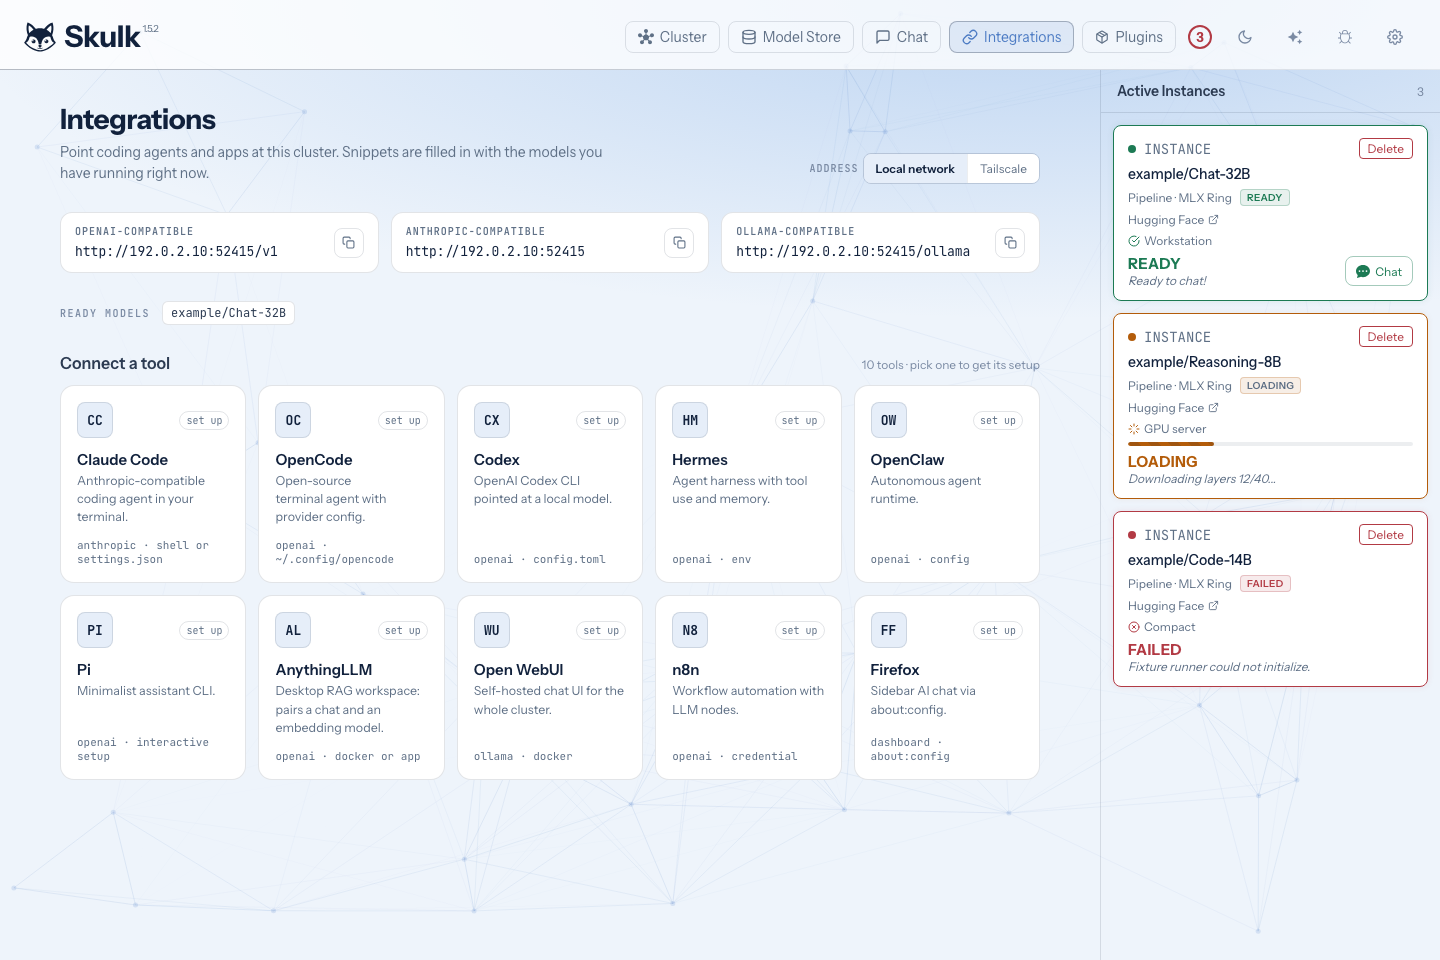
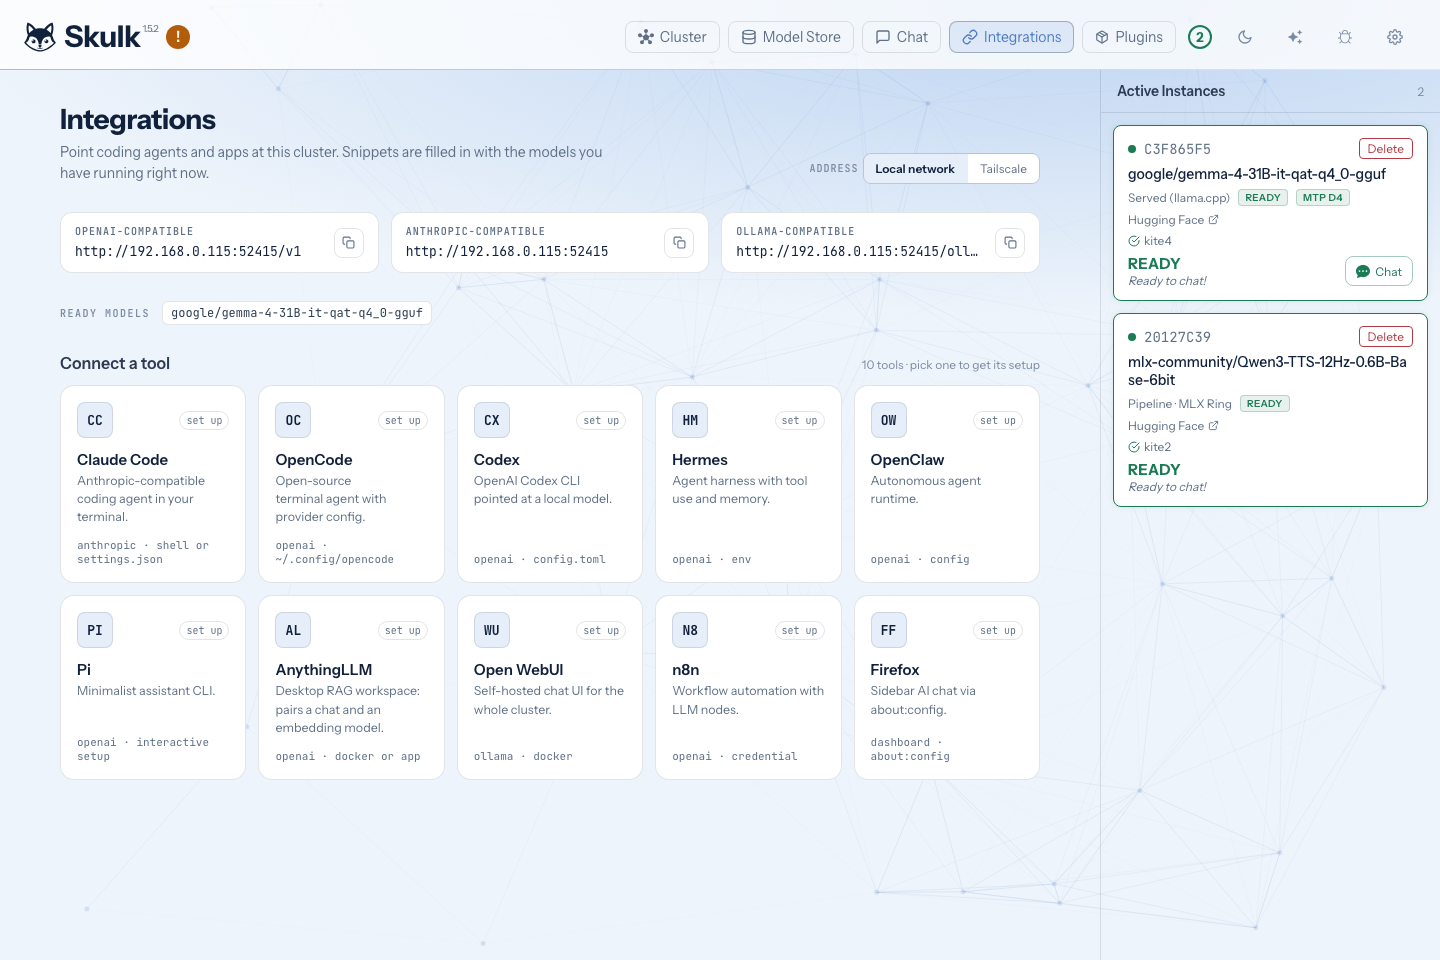
Use live cluster and native app screenshots; repair embedded OpenAPI references

diff --git a/src/skulk/api/main.py b/src/skulk/api/main.py
@@ -1153,7 +1153,7 @@ def _video_create_multipart_schema() -> dict[str, object]:
     ``allOf`` beside the file parts; the parts are merged into a copy of it.
     """
 
-    schema = cast("dict[str, object]", VideoCreateRequest.model_json_schema())
+    schema = _inline_request_schema(VideoCreateRequest.model_json_schema())
     properties = dict(cast("dict[str, object]", schema.get("properties", {})))
     binary: dict[str, object] = {"type": "string", "format": "binary"}
     properties["input_reference"] = {
@@ -1568,13 +1568,62 @@ def _create_fastapi_app() -> FastAPI:
     )
 
 
+def _inline_request_schema(schema: dict[str, object]) -> dict[str, object]:
+    """Inline local definitions before embedding nonrecursive request metadata.
+
+    Pydantic's standalone ``#/$defs`` references address the document root.
+    Once nested inside OpenAPI they would point outside their own schema, so
+    resolve them locally without changing request validation or parsing.
+    """
+
+    def expand(
+        value: object,
+        definitions: dict[str, object],
+        resolving: frozenset[str] = frozenset(),
+    ) -> object:
+        if isinstance(value, list):
+            return [
+                expand(item, definitions, resolving)
+                for item in cast(list[object], value)
+            ]
+        if not isinstance(value, dict):
+            return value
+        fields = cast(dict[str, object], value)
+        local = fields.get("$defs")
+        if isinstance(local, dict):
+            definitions = definitions | cast(dict[str, object], local)
+        reference = fields.get("$ref")
+        if isinstance(reference, str) and reference.startswith("#/$defs/"):
+            if reference in resolving:
+                raise ValueError(
+                    "Recursive request metadata needs an OpenAPI component"
+                )
+            name = (
+                reference.removeprefix("#/$defs/").replace("~1", "/").replace("~0", "~")
+            )
+            target = expand(definitions[name], definitions, resolving | {reference})
+            assert isinstance(target, dict)
+            return cast(dict[str, object], target) | {
+                key: expand(item, definitions, resolving)
+                for key, item in fields.items()
+                if key not in {"$ref", "$defs"}
+            }
+        return {
+            key: expand(item, definitions, resolving)
+            for key, item in fields.items()
+            if key != "$defs"
+        }
+
+    return cast(dict[str, object], expand(schema, {}))
+
+
 def _json_request_body(schema: dict[str, object]) -> dict[str, object]:
     return {
         "requestBody": {
             "required": True,
             "content": {
                 "application/json": {
-                    "schema": schema,
+                    "schema": _inline_request_schema(schema),
                 }
             },
         }
@@ -1584,7 +1633,7 @@ def _json_request_body(schema: dict[str, object]) -> dict[str, object]:
 def _audio_speech_request_body() -> dict[str, object]:
     """Describe the JSON and multipart forms accepted by the speech route."""
 
-    json_schema = cast(dict[str, object], AudioSpeechRequest.model_json_schema())
+    json_schema = _inline_request_schema(AudioSpeechRequest.model_json_schema())
     multipart_schema = cast(dict[str, object], json.loads(json.dumps(json_schema)))
     properties = cast(dict[str, object], multipart_schema.get("properties", {}))
     properties["reference_audio"] = {
@@ -2692,7 +2741,9 @@ class API:
                     "required": True,
                     "content": {
                         "application/json": {
-                            "schema": VideoCreateRequest.model_json_schema()
+                            "schema": _inline_request_schema(
+                                VideoCreateRequest.model_json_schema()
+                            )
                         },
                         "multipart/form-data": {
                             "schema": _video_create_multipart_schema()

diff --git a/src/skulk/api/tests/test_api_documentation.py b/src/skulk/api/tests/test_api_documentation.py
@@ -3,6 +3,7 @@
 import re
 from pathlib import Path
 
+import httpx
 import pytest
 from fastapi import FastAPI
 from fastapi.routing import APIRoute, APIWebSocketRoute
@@ -132,3 +133,75 @@ def test_public_route_paths_are_present_in_the_manual_guide(
     for route in documented_app.routes:
         if isinstance(route, APIRoute | APIWebSocketRoute):
             assert route.path_format in documented_paths, route.path_format
+
+
+async def test_all_references_resolve_in_live_openapi(
+    documented_app: FastAPI,
+) -> None:
+    """Resolve every reference against the HTTP schema without exporter repair."""
+    async with httpx.AsyncClient(
+        transport=httpx.ASGITransport(app=documented_app),
+        base_url="http://localhost",
+    ) as client:
+        response = await client.get("/api/openapi.json")
+    assert response.status_code == 200
+    schema = TypeAdapter(dict[str, JsonValue]).validate_json(response.content)
+    pending: list[JsonValue] = [schema]
+    visited: set[str] = set()
+    while pending:
+        value = pending.pop()
+        if isinstance(value, list):
+            pending.extend(value)
+        elif isinstance(value, dict):
+            reference = value.get("$ref")
+            if isinstance(reference, str) and reference not in visited:
+                assert reference.startswith("#/"), reference
+                visited.add(reference)
+                target: JsonValue = schema
+                for encoded_part in reference[2:].split("/"):
+                    part = encoded_part.replace("~1", "/").replace("~0", "~")
+                    assert isinstance(target, dict) and part in target, reference
+                    target = target[part]
+                pending.append(target)
+            pending.extend(value.values())
+
+
+def test_config_request_retains_direct_and_wrapped_nested_fields(
+    documented_app: FastAPI,
+) -> None:
+    """Inlining must retain configuration structure, constraints, and both forms."""
+    schema = TypeAdapter(dict[str, JsonValue]).validate_python(documented_app.openapi())
+    value: JsonValue = schema
+    for key in (
+        "paths",
+        "/config",
+        "put",
+        "requestBody",
+        "content",
+        "application/json",
+        "schema",
+    ):
+        assert isinstance(value, dict)
+        value = value[key]
+    assert isinstance(value, dict)
+    alternatives = value["anyOf"]
+    assert isinstance(alternatives, list) and len(alternatives) == 2
+    direct, wrapped = alternatives
+    assert isinstance(direct, dict) and isinstance(wrapped, dict)
+    wrapped_properties = wrapped["properties"]
+    assert isinstance(wrapped_properties, dict)
+    assert wrapped["required"] == ["config"]
+    assert wrapped_properties["config"] == direct
+    properties = direct["properties"]
+    assert isinstance(properties, dict)
+    intelligent_fabric = properties["intelligentFabric"]
+    assert isinstance(intelligent_fabric, dict)
+    variants = intelligent_fabric["anyOf"]
+    assert isinstance(variants, list)
+    settings = variants[0]
+    assert isinstance(settings, dict) and settings["additionalProperties"] is False
+    settings_properties = settings["properties"]
+    assert isinstance(settings_properties, dict)
+    enabled = settings_properties["enabled"]
+    assert isinstance(enabled, dict)
+    assert enabled["type"] == "boolean" and enabled["default"] is False

diff --git a/website/docs/native-app.md b/website/docs/native-app.md
@@ -14,18 +14,15 @@ configured operator gateway and relay. This guide does not assume that a public
 App Store or Google Play listing is available. For browser access without a
 native app, see [Mobile dashboard](mobile-dashboard.md).
 
-## Interface preview
+## Open the app
 
-These captures show the current app's **web preview at phone dimensions**, using
-sanitized fictional fixture data. They illustrate the shared Cluster, Models,
-and Activity screens; they are not iOS or Android device screenshots, a live
-cluster, or evidence of native-platform qualification. Native controls and
-system chrome differ on a device.
+The welcome screen opens into your paired cluster. The captures in this guide
+come from the iOS app connected to a live cluster. They show actual state at
+capture time; available models and resource readings can change.
 
-<div style={{display: 'flex', gap: '12px', flexWrap: 'wrap'}}>
-  <img src={require('./imgs/native-app-web-cluster.png').default} alt="Web preview of the operator app Cluster screen with fictional nodes and memory values" width="240" />
-  <img src={require('./imgs/native-app-web-models.png').default} alt="Web preview of the operator app Models screen showing example ready and failed instances" width="240" />
-  <img src={require('./imgs/native-app-web-activity.png').default} alt="Web preview of the operator app Activity screen showing simulated model operations" width="240" />
+<div style={{display: 'flex', gap: '16px', flexWrap: 'wrap'}}>
+  <img src={require('./imgs/native-app-welcome.jpg').default} alt="Skulk native app welcome screen with Open Skulk button" width="260" />
+  <img src={require('./imgs/native-app-cluster.jpg').default} alt="Native app showing a healthy three-node cluster connected through the encrypted relay" width="260" />
 </div>
 
 ## Pair with your cluster
@@ -58,6 +55,12 @@ a remembered cluster name is not proof of a live connection.
 
 ## Manage models
 
+<div style={{display: 'flex', gap: '16px', flexWrap: 'wrap'}}>
+  <img src={require('./imgs/native-app-models.jpg').default} alt="Running models in the native app, including ready chat and speech models" width="260" />
+  <img src={require('./imgs/native-app-model-detail.jpg').default} alt="Model detail separating catalog card, canonical store, artifact copies, and ready runtime" width="260" />
+</div>
+
+
 Models do not have to move through one fixed wizard. You can inspect a catalog
 card before downloading, place an already downloaded model, or stop a running
 instance while retaining its files.
@@ -76,6 +79,9 @@ reports durable installation identities for its nodes and also requires system
 authorization. Available actions depend on the device's granted scopes.
 
 ## Chat and spoken responses
+
+<img src={require('./imgs/native-app-chat.jpg').default} alt="A live Skulk conversation in the native app with the spoken-response control" width="300" />
+
 
 Select Skulk for the fabric-aware conversation or choose a ready model for
 ordinary model chat. Canceling generation closes that request's independent

diff --git a/CONTRIBUTING.md b/CONTRIBUTING.md
@@ -530,20 +530,19 @@ Run `npm run lint`, `npx tsc -b`, `npm test`, `npm run build`, and
 
 ### Documentation screenshots
 
-Capture the current dashboard with the offline Storybook fixtures, which intercept
-API requests and do not operate a live cluster:
+Capture a running dashboard using its actual cluster state. Set the target
+explicitly; the script opens fresh browser contexts and does not reuse login
+credentials or saved conversations:
 
 ```bash
-# Terminal 1, from the repository root (dashboard dependencies installed)
-npm --prefix dashboard-react run storybook -- --ci --host 127.0.0.1 --port 6017
-
-# Terminal 2, from the repository root
-node scripts/capture_docs_screenshots.mjs
+SKULK_DOCS_URL=http://localhost:52415 node scripts/capture_docs_screenshots.mjs
 ```
 
-The script refreshes desktop and phone captures under `website/docs/imgs/`,
-exercises the visible navigation and chat controls, and fails on page errors.
-Inspect every image for clipping, overlays, and incomplete loading before
-committing. Preserve captions identifying the data as fictional; these images
-are UI examples, not performance or deployment evidence. Native-app images have
-a separate capture source and are not produced by this dashboard script.
+The script refreshes desktop and phone captures under `website/docs/imgs/`. It
+blocks non-read HTTP requests and uses only navigation, theme, and panel controls;
+it does not submit chat, modify configuration, or manage models. It fails on page
+errors or attempted non-read requests. Use a target the operator has authorized
+for documentation capture and inspect every image for exposed credentials,
+clipping, overlays, and incomplete loading before committing. Captions should
+identify actual state at capture time; do not replace observed state with fixture
+data. Native operator-app screenshots must come from the app separately.

diff --git a/website/docs/dashboard.md b/website/docs/dashboard.md
@@ -9,8 +9,8 @@ Open it from the desktop app or visit `http://localhost:52415` on that machine.
 A dashboard connected to one node can show the cluster; you do not need to find
 the elected master first.
 
-The screenshots below show the actual dashboard with fictional sample data.
-Model names, node names, failure states, and measurements are illustrations.
+The screenshots below show the actual dashboard and live cluster state at
+capture time. Available models and resource readings change as the cluster runs.
 
 ## Cluster: see where work is running
 
@@ -32,7 +32,7 @@ before approving it. See [Talk to Skulk](steward).
 
 ## Model Store: separate downloads from placements
 
-![Model Store with example inventory](./imgs/dash-2.png)
+![Model Store showing the cluster inventory](./imgs/dash-2.png)
 
 Open **Model Store** to inspect canonical downloads, then **Find Models** to
 browse and filter models. Search results describe catalog entries; store
@@ -51,7 +51,7 @@ explains retention and recovery.
 
 ## Chat: choose a ready model
 
-![Chat with a ready example model](./imgs/dash-3.png)
+![Chat ready for a new conversation with a placed model](./imgs/dash-3.png)
 
 Choose a ready chat model in the composer. Conversations, model selection,
 attachments, and generation controls live in the Chat view; history and active

diff --git a/website/docs/mobile-dashboard.md b/website/docs/mobile-dashboard.md
@@ -60,8 +60,8 @@ full-screen, which makes it feel like an app rather than a browser tab.
 
 ## The mobile layout
 
-These captures show the current dashboard with fictional nodes, models, and
-measurements. They demonstrate layout and controls rather than a live deployment.
+These captures show the actual dashboard connected to a live cluster at phone
+dimensions. Model availability and resource readings reflect the capture time.
 
 <div style={{display: 'flex', gap: '12px', flexWrap: 'wrap'}}>
   <img src={require('./imgs/mobile-topology.png').default} alt="Cluster topology on a phone" width="260" />
@@ -74,7 +74,7 @@ Observability, Settings, and the theme toggle. The cluster view renders the same
 topology as desktop, with node cards sized for the smaller canvas.
 
 <div style={{display: 'flex', gap: '12px', flexWrap: 'wrap'}}>
-  <img src={require('./imgs/mobile-chat.png').default} alt="Chat with a placed model on a phone" width="260" />
+  <img src={require('./imgs/mobile-chat.png').default} alt="Chat ready for a new conversation at phone dimensions" width="260" />
   <img src={require('./imgs/mobile-observability.png').default} alt="Observability sheet showing live runner phases" width="260" />
 </div>
 

diff --git a/website/docs/install.md b/website/docs/install.md
@@ -172,14 +172,14 @@ The dashboard first shows every connected node and its available memory. Start
 with one node, then add machines one at a time so a discovery or permission
 problem is easy to isolate.
 
-*The following dashboard captures use fictional example data.*
+*These captures show the actual dashboard connected to a live cluster.*
 
 ![Skulk dashboard topology showing connected nodes and ready model placements](./imgs/dash-1.png)
 
 After a model reports ready, open Chat and send a short prompt. The response is
 generated by your own Skulk node or cluster.
 
-![Skulk dashboard chat showing a response from a ready model](./imgs/dash-3.png)
+![Skulk dashboard chat ready for a new conversation with a placed model](./imgs/dash-3.png)
 
 ## Hugging Face token
 

diff --git a/CLAUDE.md b/CLAUDE.md
@@ -1373,7 +1373,8 @@ and an allowlisted asset fetch interceptor; gallery requests never operate a clu
 
 ## Documentation screenshot refresh
 
-Use the offline Storybook workflow in `CONTRIBUTING.md` and
-`node scripts/capture_docs_screenshots.mjs` to refresh dashboard documentation
-images. Fixtures intercept API calls; retain fictional-data captions and inspect
-both desktop and phone captures before committing.
+Use the live-dashboard workflow in `CONTRIBUTING.md` and
+`SKULK_DOCS_URL=<authorized-dashboard-origin> node scripts/capture_docs_screenshots.mjs`.
+The capture script blocks non-read HTTP requests and records actual dashboard
+state. Inspect desktop and phone captures before committing; native operator-app
+screenshots come from the app separately.

diff --git a/website/docs/intro.md b/website/docs/intro.md
@@ -20,11 +20,10 @@ cluster; the model, engine, available memory, and network determine which nodes
 can participate in each placement. Joining a cluster does not make every GPU
 interchangeable or every model distributable.
 
-![Skulk dashboard showing a three-node example cluster](./imgs/dash-1.png)
+![Skulk dashboard showing a running three-node cluster](./imgs/dash-1.png)
 
-*Dashboard screenshots in these guides use the current interface with fictional
-nodes, models, and measurements. They illustrate controls and states, not
-performance results.*
+*Screenshots show the actual dashboard and live cluster state at capture time.
+Model availability and resource readings change as the cluster runs.*
 
 ## Start with one model
 

diff --git a/website/docs/capability-nodes.md b/website/docs/capability-nodes.md
@@ -16,9 +16,9 @@ and any provider-specific policy. Process separation helps lifecycle management;
 it is not a sandbox against malicious code running as the same operating-system
 user. Install only bundles from publishers you trust.
 
-![Managed plugin inventory with fictional capability data](./imgs/dashboard-plugins.png)
+![Managed plugin inventory in the live dashboard](./imgs/dashboard-plugins.png)
 
-*Illustrative plugin inventory; this example is not a downloadable package.*
+*The actual plugin inventory at capture time; installed capabilities vary by cluster.*
 
 ## Get a compatible plugin
 

diff --git a/website/docs/integrations.md b/website/docs/integrations.md
@@ -15,9 +15,9 @@ it is a configuration change rather than an integration project. The dashboard's
 Open the dashboard and choose **Integrations** in the navigation, or go straight
 to `/integrations`.
 
-![Integration recipes using fictional ready models](./imgs/dashboard-integrations.png)
+![Integration recipes using the cluster’s ready models](./imgs/dashboard-integrations.png)
 
-*The screenshot uses fictional model and cluster data.*
+*The screenshot shows live model availability at capture time.*
 
 ## What the page gives you
 

diff --git a/website/docs/steward.md b/website/docs/steward.md
@@ -16,9 +16,9 @@ and Skulk's bundled documentation. Questions such as “Which models are running
 “Why can this model not fit?” and “How do I configure logging?” therefore use the
 cluster's observations and documentation.
 
-![Steward conversation in the dashboard](./imgs/dashboard-steward.png)
+![Skulk conversation panel in the live dashboard](./imgs/dashboard-steward.png)
 
-*Illustrative conversation with fictional cluster data.*
+*The actual dashboard conversation panel at capture time.*
 
 ## Enable the resident model
 
